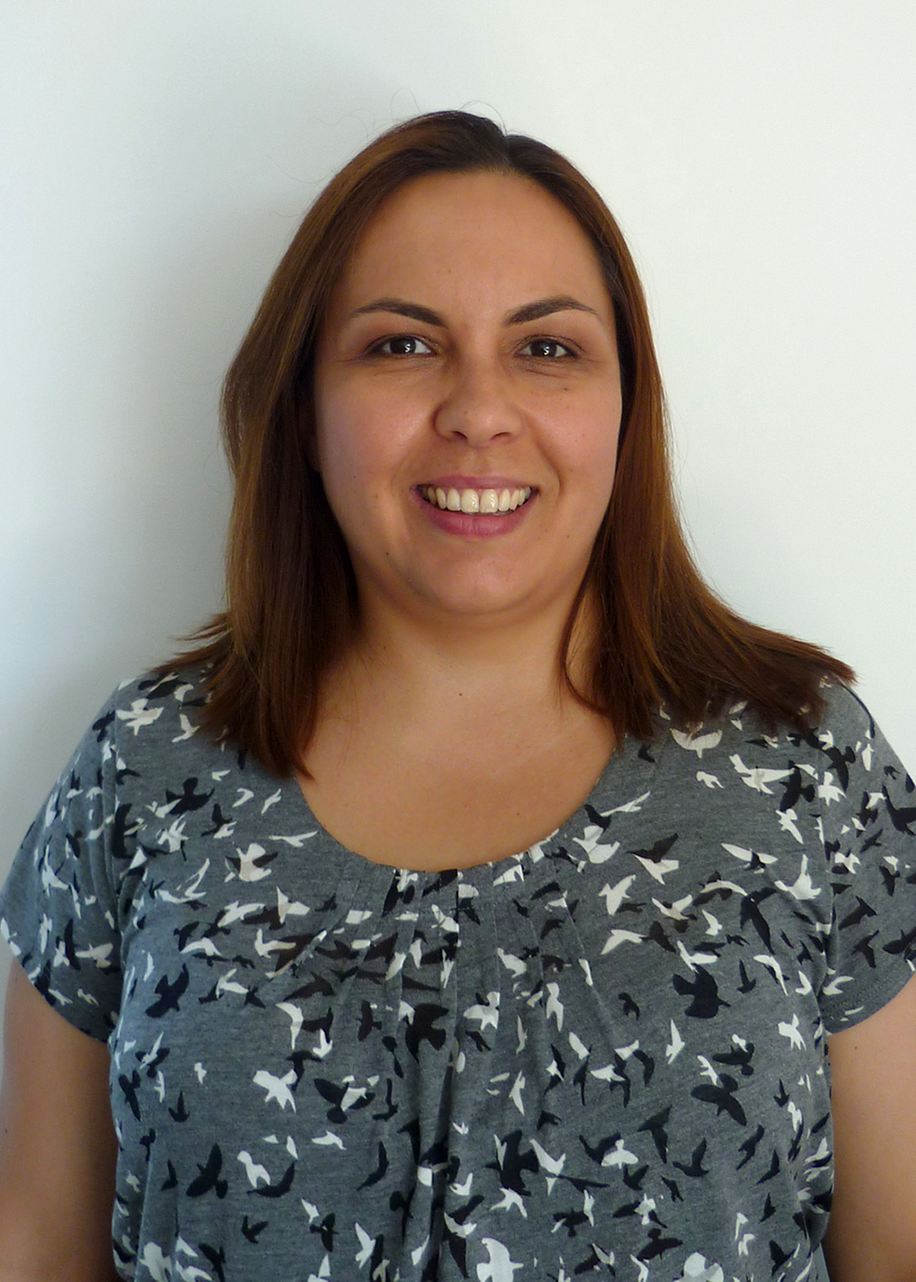
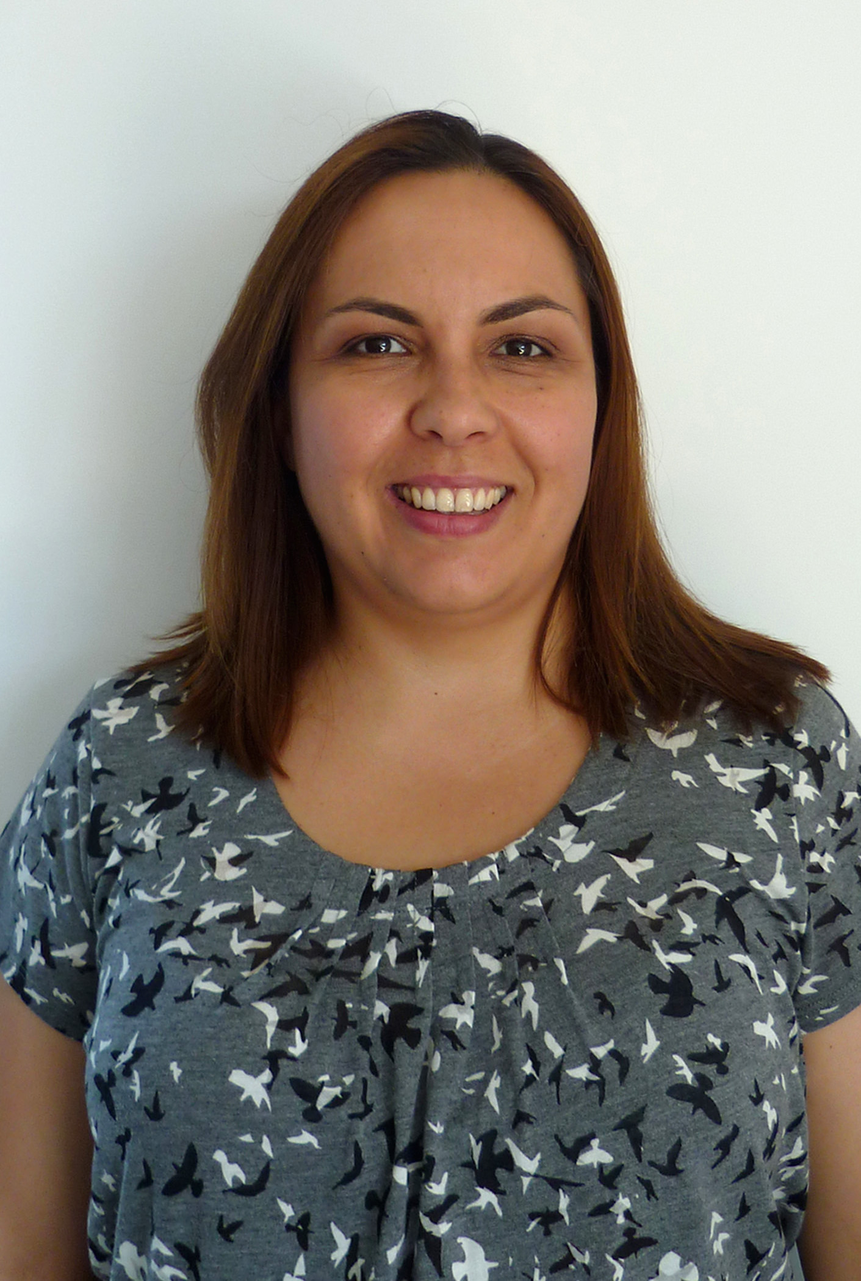
changed proportions of some pictures

diff --git a/app/assets/stylesheets/application.css b/app/assets/stylesheets/application.css
@@ -262,10 +262,11 @@ a:hover {
           border-radius: 6px;
 }
 
+
+
 .img-polaroid {
   padding: 4px;
-  height:340px;
-  width:225px;
+  width: 100%;
   background-color: #fff;
   border: 1px solid #ccc;
   border: 1px solid rgba(0, 0, 0, 0.2);
@@ -5457,7 +5458,6 @@ input[type="submit"].btn.btn-mini {
 }
 
 .thumbnails {
-  margin-left: -20px;
   list-style: none;
   *zoom: 1;
 }
@@ -8225,12 +8225,9 @@ p.section-heading{
 }
 .team-member figure{
 	margin-bottom: 30px;
-	
+	height: 350px;
 }
-.team-member figure img{
-	display:block;
-	margin:0 auto 30px auto;
-}
+
 .team-member .member-name{
 	font-size:12px;
 }
